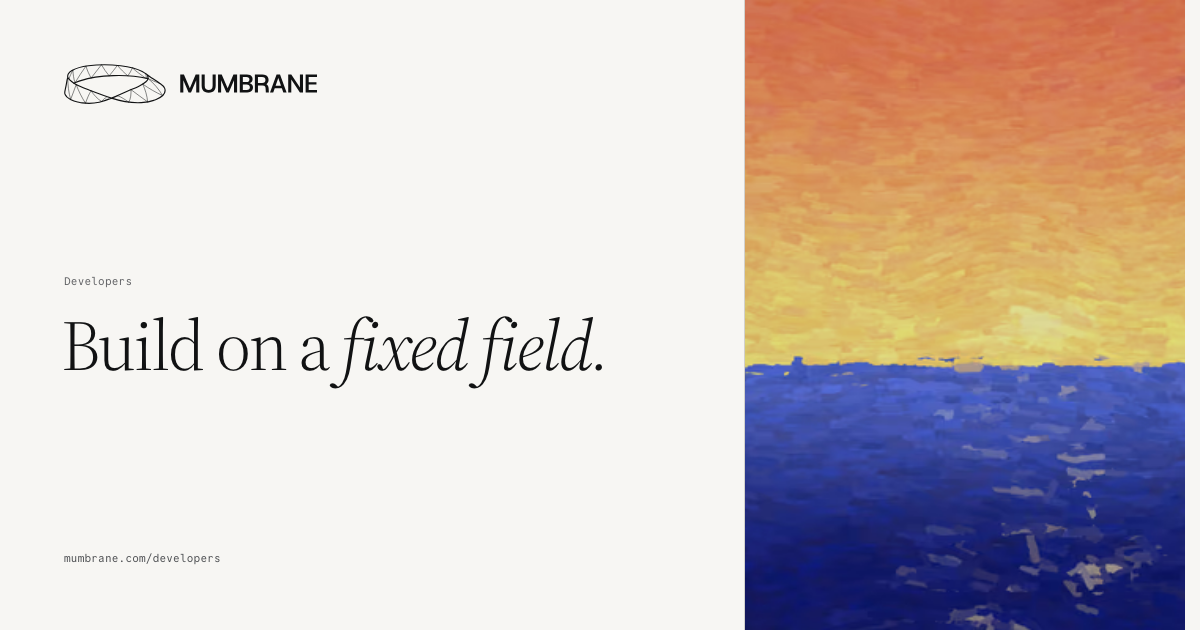
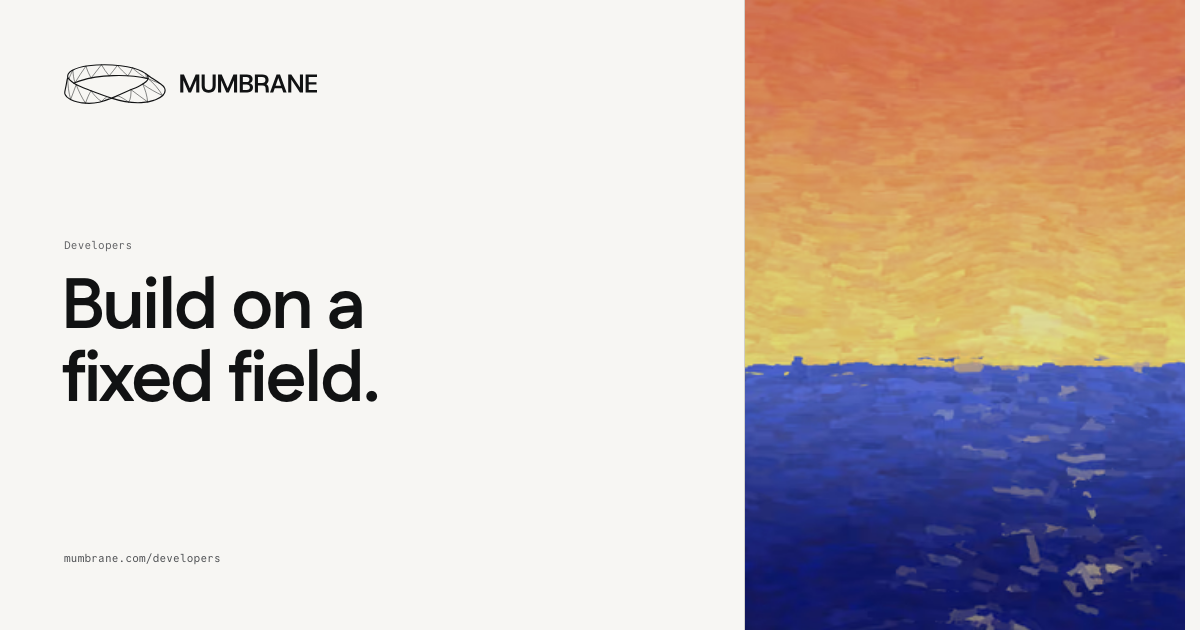
feat(type): headlines in heavy Fustat over serif reading text (D-136)
Display headlines at 700 and section/card headings at 600, after the owner's anthropic.com
reference; ledes and body stay Source Serif 4. Fustat carries the hero, so it is now the only
preloaded face. Social cards regenerated.

Changed region(s): [[0.0308, 0.4222, 0.4933, 0.6333], [0.0617, 0.3619, 0.0925, 0.3921]]

diff --git a/src/app/globals.css b/src/app/globals.css
@@ -63,15 +63,15 @@
   --color-limit: var(--color-paper-3);      /* resource stop / incomplete / incompatible */
 
   /* Type families — variables are provided by next/font in src/app/fonts.ts (D-135).
-     Prose (headlines, ledes, body) reads in Source Serif 4; interface in Fustat; data in
-     Commit Mono. */
+     Headlines in heavy Fustat (D-136); ledes and body read in Source Serif 4; interface in
+     Fustat; data in Commit Mono. */
   --font-sans: var(--font-fustat), ui-sans-serif, system-ui, -apple-system, "Segoe UI", sans-serif;
   --font-serif: var(--font-source-serif), ui-serif, Georgia, "Times New Roman", serif;
   --font-serif-italic: var(--font-source-serif-italic), var(--font-source-serif), ui-serif, Georgia, serif;
   --font-mono: var(--font-commit-mono), ui-monospace, "SF Mono", Menlo, Consolas, monospace;
 
-  /* Type scale — fluid between 375px and 1440px viewports. Display sizes down to `article` are
-     serif; their weight comes from the role rule in the base layer (it drops on dark grounds). */
+  /* Type scale — fluid between 375px and 1440px viewports. Display sizes and `title` are
+     heavy Fustat, `lede` to `article` serif; weights come from the base-layer role rule. */
   --text-display-xl: clamp(3.25rem, 1.2rem + 8.4vw, 9.25rem);
   --text-display-xl--line-height: 1.02;
   --text-display-xl--letter-spacing: -0.03em;
@@ -232,30 +232,30 @@
     min-height: 100dvh;
   }
 
-  /* Roles (D-135): prose sizes read in the serif; interface text stays Fustat (the body default)
-     and opts out at a prose size with `font-sans`, which wins from the utilities layer. Light text
-     on dark grounds reads heavier, so dark surfaces set --serif-shift: -25. */
-  .text-hero, .text-display-xl, .text-display-l, .text-display-m, .text-display-s,
-  .text-title, .text-lede, .text-body, .text-article {
+  /* Roles (D-135, D-136): headlines are heavy Fustat; ledes and body read in the serif; interface
+     text stays Fustat 400/500 (the body default) and opts out of a prose size's weight with
+     `font-sans`, which wins from the utilities layer. Light serif on dark grounds reads heavier,
+     so dark surfaces set --serif-shift: -25. */
+  .text-lede, .text-body, .text-article {
     font-family: var(--font-serif);
   }
-  /* The weights are the serif's: text that opted out keeps Fustat's 400/500, unshifted. */
-  :is(.text-display-m, .text-display-s, .text-title, .text-lede, .text-body, .text-article):not(.font-sans, .font-mono) {
+  :is(.text-lede, .text-body, .text-article):not(.font-sans, .font-mono) {
     font-weight: calc(400 + var(--serif-shift, 0));
   }
+  :is(.text-display-m, .text-display-s, .text-title):not(.font-sans, .font-mono) {
+    font-weight: 600;
+  }
   :is(.text-hero, .text-display-xl, .text-display-l):not(.font-sans, .font-mono) {
-    font-weight: calc(350 + var(--serif-shift, 0));
-    margin-inline-start: -0.04em; /* optical alignment: the serif's side bearing at display size */
+    font-weight: 700;
+    margin-inline-start: -0.04em; /* optical alignment: the first letter's side bearing */
   }
   .font-serif, .font-serif-italic { font-feature-settings: "kern", "liga", "onum"; }
 
   h1, h2, h3 { text-wrap: balance; }
   p, li, dd, figcaption, blockquote { text-wrap: pretty; }
 
-  /* Serif italic is the only emphasis, from its own font instance (tokens: --font-serif-italic).
-     A headline may carry one italic accent word. */
-  :is(.font-serif, .font-display, .text-hero, .text-display-xl, .text-display-l, .text-display-m,
-    .text-display-s, .text-title, .text-lede, .text-body, .text-article) :is(em, i),
+  /* Serif italic is the only emphasis, from its own font instance (tokens: --font-serif-italic). */
+  :is(.font-serif, .text-lede, .text-body, .text-article) :is(em, i),
   .font-serif-italic { font-family: var(--font-serif-italic); font-style: italic; }
 
   code, kbd, samp, pre { font-family: var(--font-mono); font-variant-ligatures: none; }
@@ -294,9 +294,9 @@
   }
 }
 
-/* Headlines: the serif (D-135). */
+/* Headlines: heavy Fustat (D-136). */
 @utility font-display {
-  font-family: var(--font-serif);
+  font-family: var(--font-sans);
 }
 
 /* Links inside running text (DESIGN §3.4): 1 px underline, thickens on hover, no colour jump. */

diff --git a/tests/e2e/chrome.spec.ts b/tests/e2e/chrome.spec.ts
@@ -31,8 +31,8 @@ test('@smoke the home hero text fits a 320 px phone', async ({ page }) => {
   }
 })
 
-// D-135: prose in the serif, interface in Fustat, data in Commit Mono; all from our origin, and
-// only the hero's serif preloaded.
+// D-135/D-136: headlines and interface in Fustat (the hero bold), ledes in the serif, data in
+// Commit Mono; all from our origin, and only the hero's face preloaded.
 test('@smoke fonts follow their roles and load from our origin', async ({ page }) => {
   await page.goto('/')
   const result = await page.evaluate(async () => {
@@ -58,6 +58,7 @@ test('@smoke fonts follow their roles and load from our origin', async ({ page }
       .map((r) => new URL(r.name).origin)
     return {
       headline: family('#home-title'),
+      headlineWeight: getComputedStyle(document.querySelector('#home-title') ?? document.body).fontWeight,
       lede: family('#home-title + p'),
       nav: family('header a[href]:not([href="/"])'),
       label: family('main .font-mono'),
@@ -66,11 +67,12 @@ test('@smoke fonts follow their roles and load from our origin', async ({ page }
     }
   })
   expect(result).toEqual({
-    headline: 'Source Serif 4',
+    headline: 'Fustat',
+    headlineWeight: '700',
     lede: 'Source Serif 4',
     nav: 'Fustat',
     label: 'commitMono',
-    preloaded: ['Source Serif 4 normal'],
+    preloaded: ['Fustat normal'],
     foreign: [],
   })
 })

diff --git a/brand/palette/tokens.css b/brand/palette/tokens.css
@@ -57,15 +57,15 @@
   --color-limit: var(--color-paper-3);      /* resource stop / incomplete / incompatible */
 
   /* Type families — variables are provided by next/font in src/app/fonts.ts (D-135).
-     Prose (headlines, ledes, body) reads in Source Serif 4; interface in Fustat; data in
-     Commit Mono. */
+     Headlines in heavy Fustat (D-136); ledes and body read in Source Serif 4; interface in
+     Fustat; data in Commit Mono. */
   --font-sans: var(--font-fustat), ui-sans-serif, system-ui, -apple-system, "Segoe UI", sans-serif;
   --font-serif: var(--font-source-serif), ui-serif, Georgia, "Times New Roman", serif;
   --font-serif-italic: var(--font-source-serif-italic), var(--font-source-serif), ui-serif, Georgia, serif;
   --font-mono: var(--font-commit-mono), ui-monospace, "SF Mono", Menlo, Consolas, monospace;
 
-  /* Type scale — fluid between 375px and 1440px viewports. Display sizes down to `article` are
-     serif; their weight comes from the role rule in the base layer (it drops on dark grounds). */
+  /* Type scale — fluid between 375px and 1440px viewports. Display sizes and `title` are
+     heavy Fustat, `lede` to `article` serif; weights come from the base-layer role rule. */
   --text-display-xl: clamp(3.25rem, 1.2rem + 8.4vw, 9.25rem);
   --text-display-xl--line-height: 1.02;
   --text-display-xl--letter-spacing: -0.03em;

diff --git a/src/app/fonts.ts b/src/app/fonts.ts
@@ -2,12 +2,14 @@ import { Fustat, Source_Serif_4 } from 'next/font/google'
 import localFont from 'next/font/local'
 
 // next/font serves every face from our origin with a size-adjusted fallback: no runtime requests,
-// no layout jump on swap. Roles (D-135): prose in the serif, interface in Fustat, data in mono.
+// no layout jump on swap. Roles (D-135, D-136): headlines and interface in Fustat, ledes and body
+// in the serif, data in mono. Fustat carries the hero headline (LCP), so it is the only face
+// preloaded.
 const fustat = Fustat({
   subsets: ['latin'],
   display: 'swap',
   variable: '--font-fustat',
-  preload: false,
+  preload: true,
 })
 
 // Not on Google Fonts: the official v1.143 variable file (brand/fonts, SIL OFL 1.1).
@@ -19,14 +21,13 @@ const commitMono = localFont({
   preload: false,
 })
 
-// The roman carries the hero headline (LCP), so it is the only face preloaded.
 const sourceSerif = Source_Serif_4({
   subsets: ['latin'],
   display: 'swap',
   style: ['normal'],
   axes: ['opsz'],
   variable: '--font-source-serif',
-  preload: true,
+  preload: false,
 })
 
 const sourceSerifItalic = Source_Serif_4({

diff --git a/tests/e2e/console.spec.ts b/tests/e2e/console.spec.ts
@@ -213,7 +213,7 @@ test('@console outlined chip controls share one border colour (the chip border)'
 test('@console dark theme: the serif lightens, Fustat keeps its weight', async ({ page }) => {
   await page.emulateMedia({ colorScheme: 'dark' })
   await page.goto('/console')
-  await expect(page.locator('h1')).toHaveCSS('font-weight', '375')
+  await expect(page.locator('main p.text-lede').first()).toHaveCSS('font-weight', '375')
   await page.goto('/console/keys')
   await expect(page.locator('p.font-sans.text-body').first()).toHaveCSS('font-weight', '400')
 })

diff --git a/src/app/prose.css b/src/app/prose.css
@@ -12,6 +12,12 @@
     & > * + * {
       margin-top: 1.1em;
     }
+    /* Headings are heavy Fustat like every headline (D-136); the text stays serif. */
+    & h2,
+    & h3 {
+      font-family: var(--font-sans);
+      font-weight: 600;
+    }
     & h2 {
       margin-top: 64px;
       font-size: var(--text-display-s);

diff --git a/plan/DECISIONS.md b/plan/DECISIONS.md
@@ -675,3 +675,15 @@ Supersedes the family rows of DESIGN §3.1/§3.3 and D-129's "Mona Sans / Geist 
 by owner instruction); keeping Geist Mono (owner chose Commit Mono); renaming ~95 class uses to
 carry the family per usage (the role rule does it in one place).
 **Status**: Decided (owner instruction in session).
+
+### D-136 — Headlines in heavy Fustat (2026-10-02)
+**Context**: The owner judged the light serif headlines of D-135 weak and pointed at
+anthropic.com (a heavy sans headline over serif reading text) as the target.
+**Decision**: Every headline is Fustat: display sizes (`hero`, `display-xl`, `display-l`) at 700,
+`display-m`, `display-s`, `title` and article h2/h3 at 600; `font-display` now means Fustat.
+Ledes and body stay Source Serif 4 (with the −25 dark-ground shift); interface text stays Fustat
+400/500. Fustat is now the only preloaded face (it carries the hero, the LCP element); the serif
+roman is no longer preloaded. Italic accents apply to serif text only. Sizes, line heights and
+tracking unchanged. Supersedes D-135's headline rows and the spec's "never bold a headline".
+**Alternatives**: a heavier serif headline (not the reference's look).
+**Status**: Decided (owner instruction in session).
